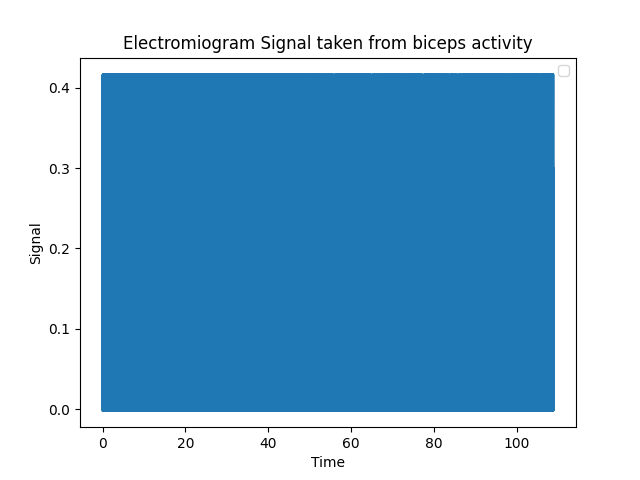
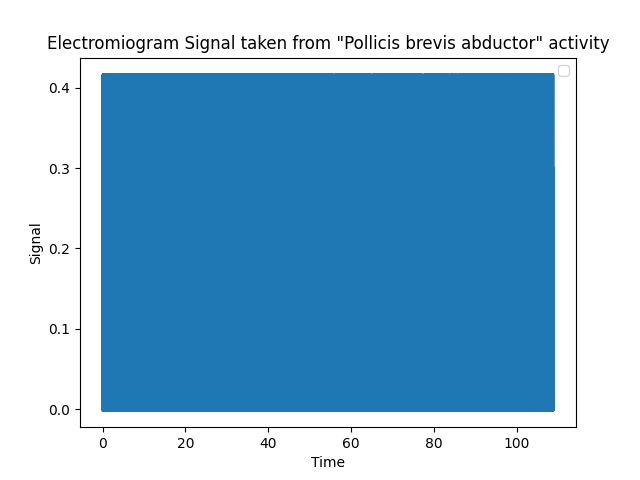
Codes

Changed region(s): [[0.0625, 0.0625, 0.9375, 0.125]]

diff --git a/ISB/Laboratorio 3/Ploteo_s2.py b/ISB/Laboratorio 3/Ploteo_s2.py
@@ -22,21 +22,8 @@ plt.plot(time2, Signal2)
 # Añadir etiquetas y título
 plt.xlabel('Time')
 plt.ylabel('Signal')
-plt.title('Electromiogram Signal taken from biceps activity')
+plt.title('Electromiogram Signal taken from "Pollicis brevis abductor" activity')
 # Mostrar leyenda
 plt.legend()
 plt.savefig('scatter_plot2.png')
-plt.show()
-
-import numpy as np
-import cmath as c
-N = 999
-w = [i*2*3.1416/999 for i in range(0, N+1)]
-w = np.array(w)
-X = np.zeros(N+1, dtype=complex)
-for k in range(0, 1000):
-    arg = [-1j*i*w[k] for i in n]
-    exp_seq = np.exp(arg)
-    X[k] = sum(Signal2*exp_seq)
-plt.plot(w, X)
 plt.show()

diff --git a/ISB/Laboratorio 3/Ploteo_s3.py b/ISB/Laboratorio 3/Ploteo_s3.py
@@ -1,0 +1,24 @@
+import re
+with open("emg3.txt", "r") as file:
+    texto = file.read()
+
+columna_sexta = re.findall(r'\b\d+\b', texto.split("# EndOfHeader")[1])
+Signal3 = []
+
+k = 10
+for valor in columna_sexta:
+    Signal3.append((float(valor)/(2^k)-1/2)*3.3/1009)
+n = [i for i in range(0,len(Signal3))]
+Ts = 1/1000
+time3 = [i*Ts for i in n]
+print(len(time3))
+print(len(Signal3))
+import matplotlib.pyplot as plt
+
+plt.plot(time3, Signal3)
+plt.xlabel('Time')
+plt.ylabel('Signal')
+plt.title('Electromiogram Signal taken from Soleum activity')
+plt.legend()
+plt.savefig('scatter_plot3.png')
+plt.show()

diff --git a/ISB/Laboratorio 3/Informe.md b/ISB/Laboratorio 3/Informe.md
@@ -1,0 +1,114 @@
+# Lab 3 - EMG con BiTalino
+
+##  Objetivos de la práctica
+Adquirir señales biomédicas de EMG.
+Hacer una correcta configuración de BiTalino.
+Extraer la información de las señales EMG de software OpenSignals (r)evolution
+
+## Materiales
+- Kit BiTalino
+- Laptop
+- Electrodos
+
+## Introducción
+
+
+##  Ploteo de Python
+
+- Para el ploteo de la primera señal adquirida, que refiere al EMG del paquete muscular **biceps braquial**, se tiene el siguiente código: 
+(Archivo: Ploteo_s1.py)
+
+![alt text](scatter_plot1.png)
+
+```python
+import re
+with open('emg1.txt', 'r') as file:
+    texto = file.read()
+
+
+columna_sexta = re.findall(r'\b\d+\b', texto.split("# EndOfHeader")[1])
+Signal = []
+k = 10
+for valor in columna_sexta:
+    Signal.append((float(valor)/(2^k)-1/2)*3.3/1009)
+
+n = [i for i in range(0,len(Signal))]
+Ts = 1/1000
+time = [i*Ts for i in n]
+
+import matplotlib.pyplot as plt
+
+plt.plot(time, Signal)
+plt.xlabel('Time')
+plt.ylabel('Signal')
+plt.title('Electromiogram Signal taken from biceps activity')
+
+plt.legend()
+plt.savefig('scatter_plot1.png')
+plt.show()
+```
+- Para el ploteo de la segunda señal adquirida, que refiere al EMG del músculo __abductor pollicis brevis__, se tiene el siguiente código: 
+(Archivo: Ploteo_s2.py)
+
+![alt text](scatter_plot2.png)
+
+```python 
+import re
+with open('emg2.txt', 'r') as file:
+    texto = file.read()
+
+
+columna_sexta = re.findall(r'\b\d+\b', texto.split("# EndOfHeader")[1])
+Signal2 = []
+
+k = 10
+for valor in columna_sexta:
+    Signal2.append((float(valor)/(2^k)-1/2)*3.3/1009)
+n = [i for i in range(0,len(Signal2))]
+Ts = 1/1000
+time2 = [i*Ts for i in n]
+print(len(time2))
+print(len(Signal2))
+import matplotlib.pyplot as plt
+
+plt.plot(time2, Signal2)
+plt.xlabel('Time')
+plt.ylabel('Signal')
+plt.title('Electromiogram Signal taken from "Pollicis brevis abductor" activity')
+plt.legend()
+plt.savefig('scatter_plot2.png')
+plt.show()
+
+```
+- Para el ploteo de la tercera señal adquirida, que refiere al EMG del músculo __sóleo__ y __gemelos__, se tiene el siguiente código: 
+(Archivo: Ploteo_s3.py)
+
+![alt text](scatter_plot3.png)
+
+```python
+import re
+with open('emg3.txt', 'r') as file:
+    texto = file.read()
+
+
+columna_sexta = re.findall(r'\b\d+\b', texto.split("# EndOfHeader")[1])
+Signal3 = []
+
+k = 10
+for valor in columna_sexta:
+    Signal3.append((float(valor)/(2^k)-1/2)*3.3/1009)
+n = [i for i in range(0,len(Signal3))]
+Ts = 1/1000
+time3 = [i*Ts for i in n]
+print(len(time3))
+print(len(Signal3))
+import matplotlib.pyplot as plt
+
+plt.plot(time3, Signal3)
+plt.xlabel('Time')
+plt.ylabel('Signal')
+plt.title('Electromiogram Signal taken from Soleum activity')
+plt.legend()
+plt.savefig('scatter_plot3.png')
+plt.show()
+```
